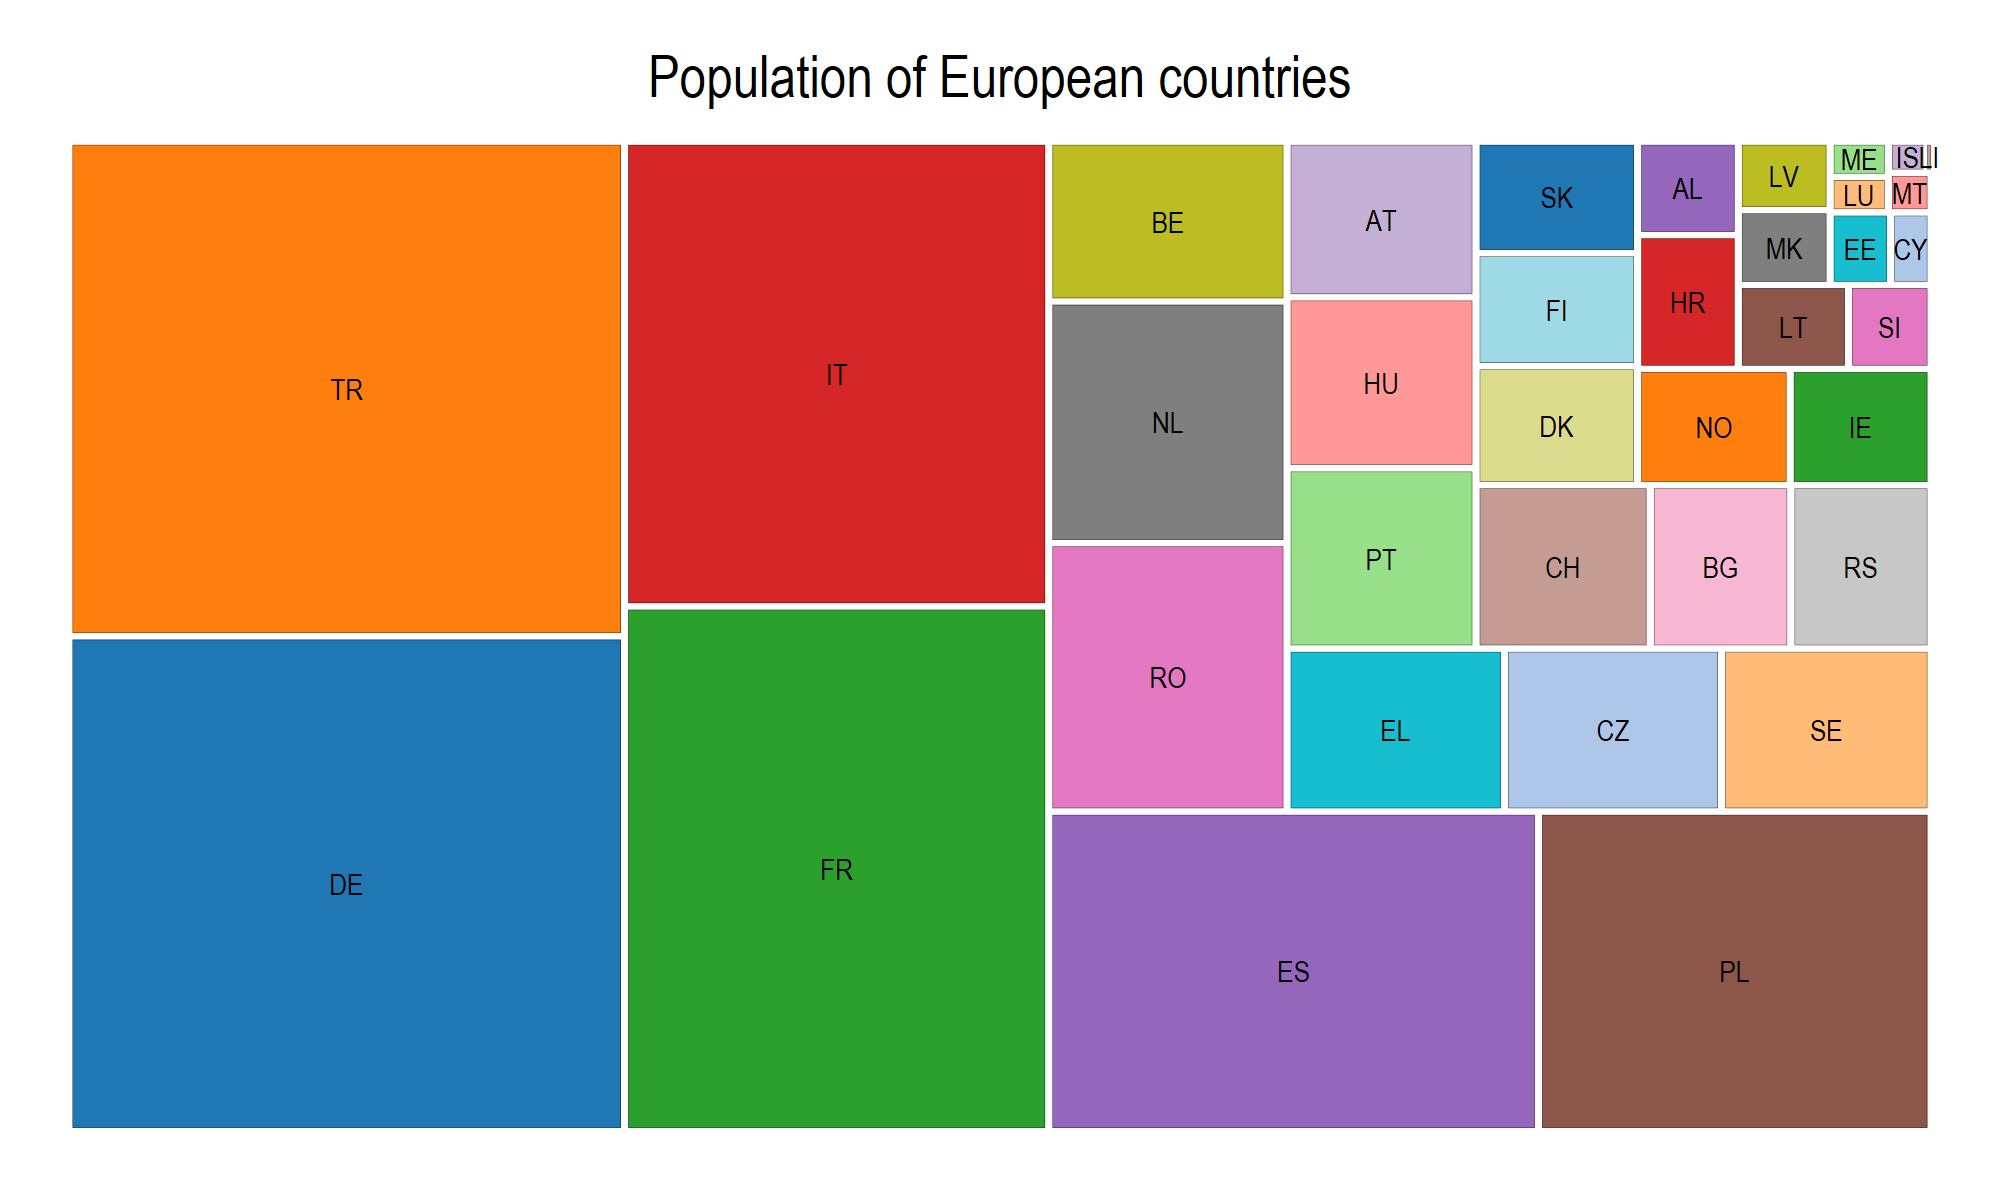
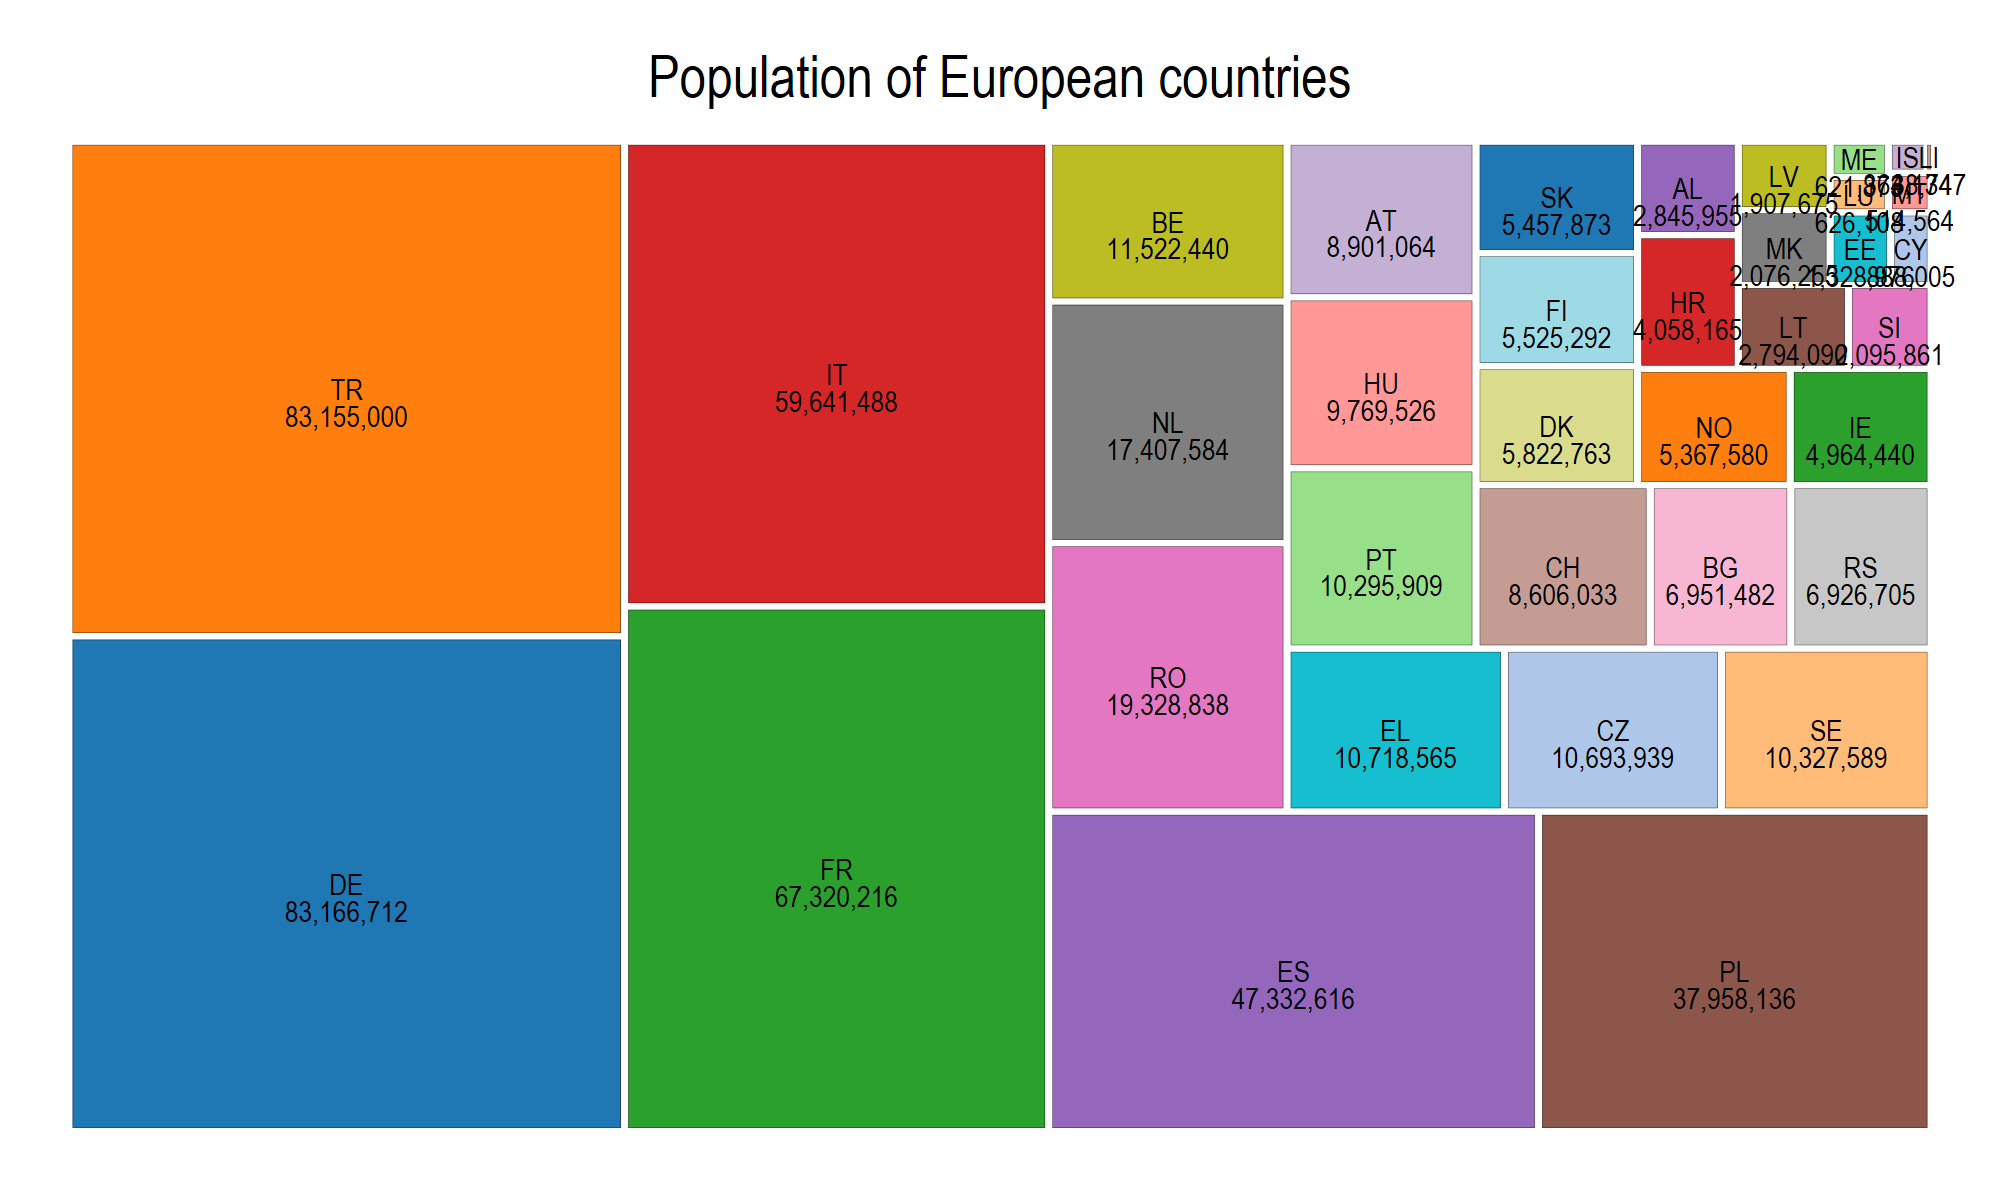
fix #9

diff --git a/README.md b/README.md
@@ -22,7 +22,7 @@ It is based on D3's [treemap](https://observablehq.com/@d3/treemap) and Python's
 
 The package can be installed via SSC or GitHub. The GitHub version, *might* be more recent due to bug fixes, feature updates etc, and *may* contain syntax improvements and changes in *default* values. See version numbers below. Eventually the GitHub version is published on SSC.
 
-The SSC version (**v1.5**):
+The SSC version (**v1.51**):
 
 ```stata
 ssc install treemap, replace
@@ -113,7 +113,7 @@ ren NUTS_ID NUTS3
 
 
 ```
-treemap y_TOT, by(NUTS0) labsize(2.5) format(15.0fc) title("Population of European countries")
+treemap y_TOT, by(NUTS0) labsize(2.5) title("Population of European countries")
 ```
 
 <img src="/figures/treemap1.png" height="500">
